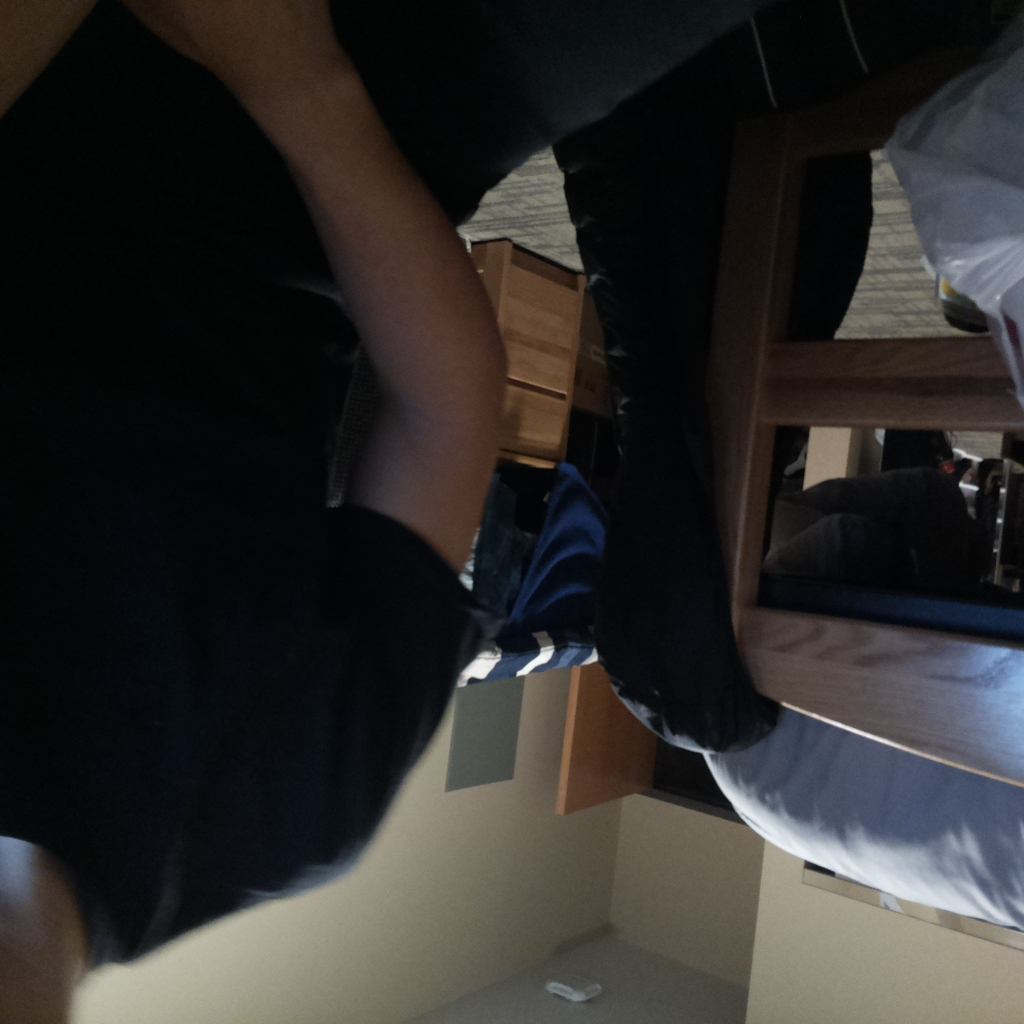
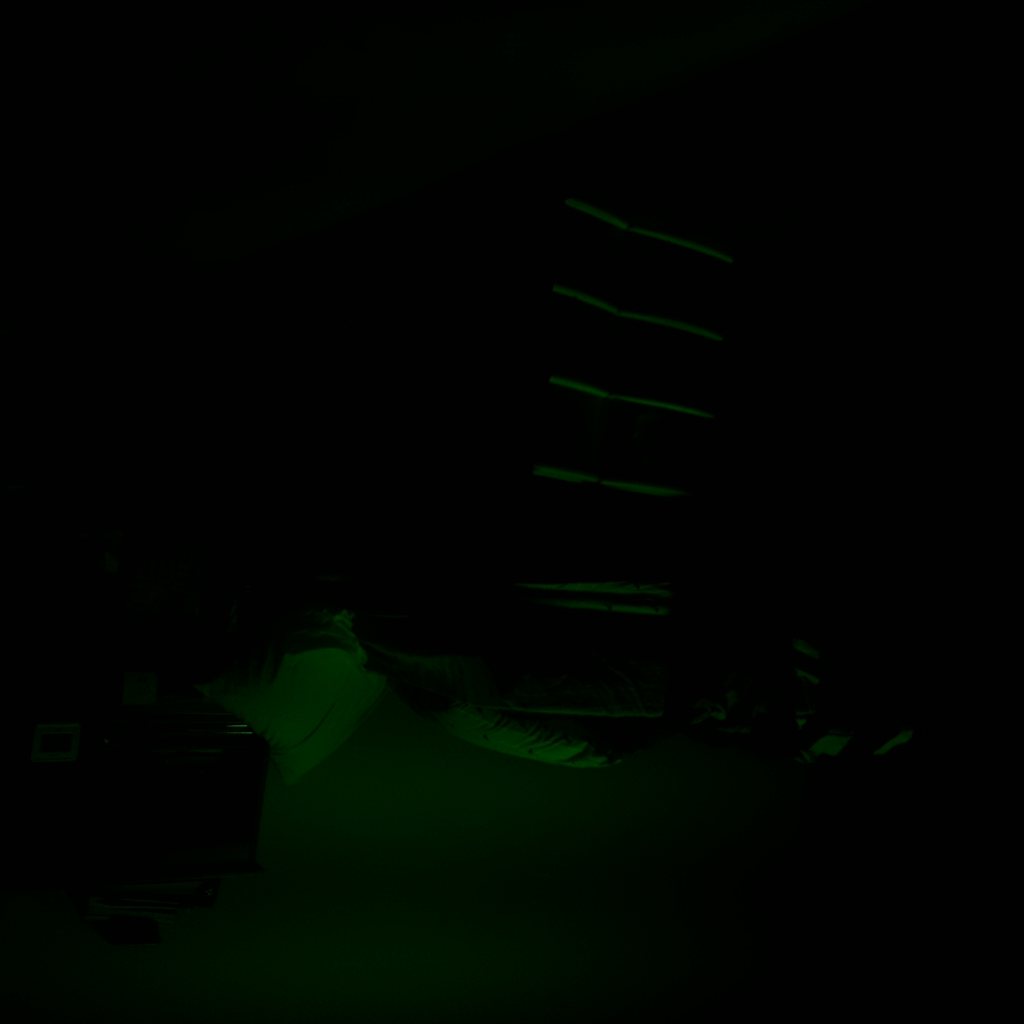
New imgs

diff --git a/compareImgs.py b/compareImgs.py
@@ -5,12 +5,12 @@ import cv2 as cv
 
 camera = PiCamera()
 camera.resolution = (1024,1024)
-#camera.iso = 600
-#camera.shutter_speed = camera.exposure_speed
-#camera.exposure_mode = 'off'
-#gain = camera.awb_gains
-#camera.awb_mode = 'off'
-#camera.awb_gains = gain
+camera.iso = 100
+camera.shutter_speed = camera.exposure_speed
+camera.exposure_mode = 'off'
+gain = camera.awb_gains
+camera.awb_mode = 'off'
+camera.awb_gains = gain
 
 cap1 = camera.capture('images/img1.jpg')
 sleep(5)
